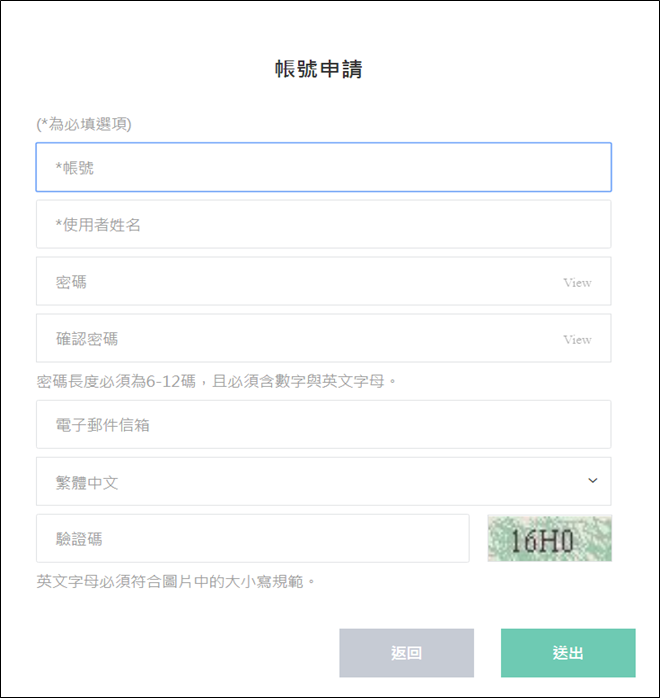
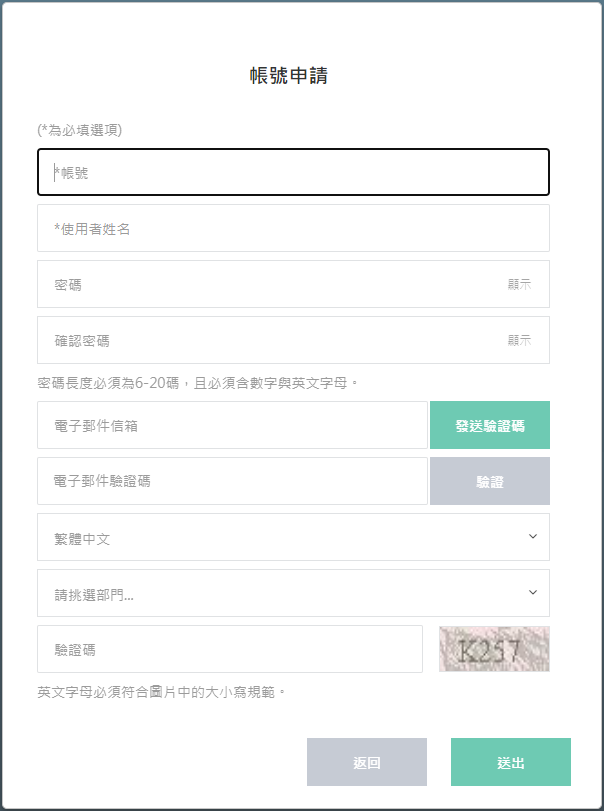
#9138 RTE_提供帳號自動生效 (SA文件)

diff --git a/8.10.2/UPDATE/ITEM_14/RTE/README.md b/8.10.2/UPDATE/ITEM_14/RTE/README.md
@@ -1,0 +1,63 @@
+### <div id="user">規劃人員</div>
+* 佩玲
+
+### <div id="updatedate">規劃日期</div>
+* 2022/10/14
+
+### <div id="trac">TRAC</div>
+* #9138
+
+### <div id="require">需求說明</div>
+* 提供企業/系統管理者可設定帳號生效方式(人工或自動)；並於帳號生效後，依設定自動對應至指定的系統、組織，及角色權限
+
+### <div id="workflow">作業流程</div>
+
+### <div id="requirement">需求展開</div>
+* 作業流程
+
+  ![作業流程]
+
+* 新增介面.帳號生效參數查詢
+  * 由Site系統服務的選單開啟
+  * 可編修及瀏覽權限的角色: 企業管理員/系統管理員
+  * 規格文件，請看: [帳號生效參數查詢][link_accounteffectparamquery]
+* 新增介面.帳號生效參數設定
+  * 由介面.帳號生效參數查詢，執行按鈕.新增，開啟本單
+  * 可編修及瀏覽權限的角色: 企業管理員/系統管理員
+  * 規格文件，請看: [帳號生效參數設定][link_accounteffectparamsetting]
+* 異動介面.登入畫面
+  * 突顯申請新帳號的樣式
+  * 完成整規格文，請看[RTE登入畫面][link_login]
+* 異動介面.帳號申請
+  * 增加發送Mail有效性驗證碼，由使用者回填驗證碼；Mail驗證碼要有效期，預設: 1分鐘，1分鐘後未回填，使用者須重新申請發送驗證碼
+  * 送出後，判斷網址是否存在帳號生效參數設定的唯一號
+    * 存在參數唯一號 且 帳號生效方式=自動，由系統自動建立申請帳號的資訊並生效
+      * 依參數唯一號寫入指定的系統、組織，及角色權限
+      * 當有效期限=到期日，預設 帳號使用該系統的有效日期等於 **到期日**
+      * 當有效期限=天數，預設 帳號使用該系統的有效日期等於 **系統日期+天數**
+    * 不存在參數唯一號，或 存在參數唯一號 且 帳號生效方式=人工，建立申請帳號資訊，但帳號不生效
+  * 完整規格文件，請看 [帳號申請][link_applyaccount]
+* 異動介面.帳號清單
+  * 按鈕.生效，判斷若申請帳號是使用介面.**帳號生效參數設定**的連結URL建立的，則生效時，增加下列寫入資料
+      * 依參數唯一號寫入指定的系統、組織，及角色權限
+      * 當有效期限=到期日，預設帳號失效日期等於 **到期日**
+      * 當有效期限=天數，預設帳號失效日期等於 **系統日期+天數**
+  * 完整規格文件，請看 [帳號清單][link_accountindex]
+* 擴充 RTE 引擎預設排程
+  * 每日檢查介面.**帳號生效參數設定**
+    * 以下條件成立時，發送通知信至系統管理員的信箱
+      * 當 **有效期限** 等於 **到期日**，依 **到期日-到期通知天數** 的日期，發送系統使用期限即將到期通知信
+      * 當 **申請人數限制** 大於等於 **已申請人數**，發送系統申請人數已額滿通知信
+      * 當 帳號 是使用介面.**帳號生效參數設定**的連結URL建立的，取得 **帳號使用系統的有效日期-各參數到期通知天數**，發送各系統即將使用到期的帳號清單通知信
+    * 當 帳號 是使用介面.**帳號生效參數設定**的連結URL建立的, 以下條件成立時，發送通知信至對應帳號的信箱
+      * 當 **帳號使用系統的有效日期-到期通知天數** 的日期，發送帳號即將到期通知信
+      * 當 **帳號使用系統的有效日期** 已到期，且 **逾期可使用天數** 不為 **0**，發送帳號已逾期通知信
+
+
+[作業流程]:attachment/8319_workflow.png "作業流程"
+
+[link_accounteffectparamquery]:{3}/RTE/SITE/accounteffectparamquery/README
+[link_accounteffectparamsetting]:{3}/RTE/SITE/accounteffectparamsetting/README
+[link_login]:{3}/RTE/SYSTEM/LOGIN/README
+[link_applyaccount]:{3}/RTE/SYSTEM/APPLYACCOUNT/README
+[link_accountindex]:{3}/RTE/SITE/accountindex/README

diff --git a/8.10.2/RTE/SITE/accounteffectparamsetting/README.md b/8.10.2/RTE/SITE/accounteffectparamsetting/README.md
@@ -1,0 +1,80 @@
+### <div id="view">畫面說明</div>
+
+![表單畫面]
+
+* 本單主要在設定帳號生效的方式，及生效後預設對應的系統、組織及角色權限
+
+
+## <div id="object-desc">欄位說明</div>
+
+* 欄位.帳號生效方式
+    * 單選 (自動 / 人工)
+    * 系統預設: 自動
+* 欄位.申請人數限制
+    * 本欄只允輸入數字
+    * 系統預設: 0 (表示無限制)
+* 欄位.已申請人數
+    * 本欄位唯讀並除能
+    * 顯示 依參數唯一號，取得申請帳號且已生效的人數
+* 欄位.有效期限
+    * 單選 (無限制 / 到期日 / 天數)
+    * 系統預設: 無限制
+* 欄位.到期日
+    * 當有效期限=到期日，本欄致能，反之則除能
+    * 系統預設：今天的日期 
+    * 按鈕.日期: 點擊後，開啟日期選擇器，帶回 日期
+* 欄位.天數
+    * 當有效期限=天數，本欄致能，反之則除能
+    * 本欄只允輸入數字
+* 欄位.到期通知天數
+    * 當有效期限<>無限制，本欄致能，反之則除能
+    * 本欄只允輸入數字
+    * 系統預設: 0
+* 欄位.逾期可使用天數
+    * 當有效期限<>無限制，本欄致能，反之則除能
+    * 本欄只允輸入數字
+    * 系統預設: 0
+* 欄位.生效系統
+    * 本欄唯讀並除能
+    * 顯示: 系統名稱
+    * 按鈕.系統選取: 點擊後，Dialog開啟介面.系統清單，依登入帳號對應的管理角色過濾可挑選系統清單，依駐留系統雙擊帶回: 系統名稱、系統代號
+* 欄位.指定組織
+    * 本欄唯讀並除能
+    * 顯示 組織名稱
+    * 按鈕.組織選取: 點擊後，Dialog開啟介面.組織清單，依欄位.生效系統過濾可挑選的組織清單，依駐留組織雙擊帶回: 組織名稱、組織代號
+* 欄位.預設角色 
+    * 本欄唯讀並除能
+    * 顯示 角色名稱
+    * 按鈕.角色選取: 點擊後，Dialog開啟介面.系統角色清單，依欄位.指定組織過濾可挑選的系統角色清單，依駐留系統角色雙擊帶回: 角色名稱、角色代號
+* 欄位.連結URL
+    * 本欄唯讀並除能    
+    * 顯示 網址+參數唯一號。參考下列URL顯示範例:
+            https://ide-2.arcare-robot.com/ArcareEng/login.jsp?_=A5CCBF73-A509-42D7-97B0-D6E02DB5363C
+    * 按鈕.複製連結: 點擊後，將連結URL的內容複製到作業系統的剪貼簿中
+        * 當為連結生效，本按鈕致能，反之則除能
+* 按鈕.儲存
+    * 儲存前，先進行下列檢查: 
+        * 當欄位.有效期限=到期日，則欄位.到期日不允為空值
+        * 當欄位.有效期限=天數，則欄位.天數不允為空值
+    * 初次儲存，產生連結唯一號為本單鍵值，並預設連結生效
+* 按鈕.重設
+    * 清除已設定內容，回復本單初始畫面
+* 按鈕.連結失效/連結失效
+    * 當連結生效，顯示 連結失效，點擊後，將本筆記錄的連結設定為失效
+    * 當連結失效，顯示 連結生效，點擊後，將本筆記錄的連結設定為生效
+
+
+### <div id="action">動作流程</div>
+* 開啟畫面
+
+* 生效系統_系統選取
+
+* 指定組織_組織選取
+
+* 預設角色_系統角色選取
+
+* 儲存
+
+* 重設
+
+[表單畫面]:attachment/account_effect_param_setting.png "表單畫面"

diff --git a/8.10.2/RTE/SITE/accounteffectparamquery/README.md b/8.10.2/RTE/SITE/accounteffectparamquery/README.md
@@ -1,0 +1,41 @@
+### <div id="view">畫面說明</div>
+
+![表單畫面]
+
+* 本單主要在查詢已設定帳號生效參數的重點內容
+* 開單後，依登入帳號對應的管理角色，載入已設定帳號生效參數的清單
+
+## <div id="object-desc">欄位說明</div>
+
+* 欄位.系統
+    * 自行輸入，可空值
+* 按鈕.查詢
+    * 當欄位.系統 無值時，登入帳號對應的管理角色，載入已設定帳號生效參數的清單至表格中
+    * 當欄位.系統 有值時，依登入帳號對應的管理角色，並查詢系統名稱包含欄位.系統的資料，載入已設定帳號生效參數的清單至表格中
+* 按鈕.新增
+    * Dialog開啟介面.帳號生效參數設定
+* 表格.帳號生效參數表格
+    * 最多顯示 **10** 筆記錄，超過出現垂直捲軸
+* 欄位.生效方式
+    * 顯示 (自動 / 人工)
+* 欄位.有效期限
+    * 當有效期限=無限制，顯示 無限制
+    * 當有效期限=到期日，顯示 **到期內容** (到期)，範例: 2022-12-31 (到期)
+    * 當有效期限=天數，顯示 **天數** (天)，範例: 120 (天)
+* 欄位.生效系統
+    * 顯示 系統名稱
+* 欄位.指定組織
+    * 顯示 組織名稱
+* 欄位.預設角色 
+    * 顯示 角色名稱
+* 按鈕.修改
+    * Dialog開啟介面.帳號生效參數設定，傳入駐留筆帳號生效參數資料    
+* 按鈕.複製連結: 
+    * 點擊後，將連結URL的內容複製到作業系統的剪貼簿中
+
+
+### <div id="action">動作流程</div>
+* 開啟畫面
+
+
+[表單畫面]:attachment/account_effect_param_query.png "表單畫面"

diff --git a/8.10.2/RTE/SYSTEM/APPLYACCOUNT/README.md b/8.10.2/RTE/SYSTEM/APPLYACCOUNT/README.md
@@ -46,6 +46,18 @@
 * 不可空白。
 * 必須為信箱格式(如aaa@bb.com)
 
+### <div id="email_send_verify_mail">發送驗證碼 <path>(畫面說明)</path></div>
+* 點擊後，發送一封 6 位數的驗證信至輸入的【電子郵件信箱】中
+* 預設 60 秒後，才可再次發送，等待過程中，按鈕改顯示 **再次發送(n秒)**
+
+### <div id="email_verify">電子郵件驗證碼 <path>(畫面說明)</path></div>
+* 預設 除能
+* 當系統已送出郵件驗證碼 且 等待驗證過程中，本欄 致能
+* 不可空白
+
+### <div id="email_verify_confirm">驗證 <path>(畫面說明)</path></div>
+* 點擊後，判斷 電子郵件驗證碼內容 須等於 系統記錄的郵件驗證碼
+
 ### <div id="language">語系資訊 <path>(畫面說明)</path></div>
 * 未輸入時顯示提示文字【語系資訊】，有輸入後提示文字消失。
 * 預設為表單.國別設定的預設國別代號
@@ -72,6 +84,7 @@
     * 確認密碼須和密碼欄位相同
     * 電子郵件不可空白
     * 電子郵件必須為信箱格式(如aaa@bb.com)
+    * 電子郵件驗證碼不可空白 且 已通過驗證
     * 驗證碼不可空白
     * 驗證碼須和圖片內的文字相同
 * 通過則儲存帳號資料，未通過則依據檢控顯示錯誤訊息

diff --git a/8.10.2/RTE/SITE/_sidebar.md b/8.10.2/RTE/SITE/_sidebar.md
@@ -13,3 +13,5 @@
 * [企業系統設定](enterprisesystem/README.md)
 * [帳號清單](accountindex/README.md)
 * [郵件伺服器](parametermailsetting/README.md)
+* [帳號生效參數設定](accounteffectparamsetting/README.md)
+* [帳號生效參數查詢](accounteffectparamquery/README.md)

diff --git a/8.10.2/UPDATE/ITEM_14/RTE/_sidebar.md b/8.10.2/UPDATE/ITEM_14/RTE/_sidebar.md
@@ -1,0 +1,8 @@
+# 提供帳號自動生效 
+* [上一頁](../../README.md)
+* [規劃人員](README.md#user)
+* [規劃日期](README.md#updatedate)
+* [TRAC](README.md#trac)
+* [需求說明](README.md#require)
+* [作業流程](README.md#workflow)
+* [需求展開](README.md#requirement)

diff --git a/8.10.2/UPDATE/_sidebar.md b/8.10.2/UPDATE/_sidebar.md
@@ -32,3 +32,5 @@
 * 13.MAE擴充_開啟它單_增加訊息盒開單模式
   * [IDE](ITEM_13/IDE/README.md)
   * [MAE](ITEM_13/MAE/README.md)
+* 14.RTE_提供帳號自動生效 
+  * [RTE](ITEM_14/RTE/README.md)

diff --git a/8.10.2/RTE/SITE/accounteffectparamquery/_sidebar.md b/8.10.2/RTE/SITE/accounteffectparamquery/_sidebar.md
@@ -1,0 +1,6 @@
+# 帳號生效參數查詢
+* [上一頁](../README.md)
+* [畫面說明](README.md#view)
+* [欄位說明](README.md#object-desc)
+* [動作流程](README.md#action)
+* [history](history.md)

diff --git a/8.10.2/RTE/SITE/accounteffectparamsetting/_sidebar.md b/8.10.2/RTE/SITE/accounteffectparamsetting/_sidebar.md
@@ -1,0 +1,6 @@
+# 帳號生效參數設定
+* [上一頁](../README.md)
+* [畫面說明](README.md#view)
+* [欄位說明](README.md#object-desc)
+* [動作流程](README.md#action)
+* [history](history.md)

diff --git a/8.10.2/RTE/SITE/enterprisesiteManager.md b/8.10.2/RTE/SITE/enterprisesiteManager.md
@@ -13,3 +13,5 @@
 * 企業目前上線人數查詢
 * 系統目前上線人數查詢
 * 稽核LOG設定
+* 帳號生效參數設定
+* 帳號生效參數查詢

diff --git a/8.10.2/RTE/SITE/systemManager.md b/8.10.2/RTE/SITE/systemManager.md
@@ -8,3 +8,5 @@
 * 系統_使用系統申請查詢
 * 系統目前上線人數查詢
 * 稽核LOG設定
+* 帳號生效參數設定
+* 帳號生效參數查詢

diff --git a/8.10.2/RTE/SITE/accounteffectparamquery/history.md b/8.10.2/RTE/SITE/accounteffectparamquery/history.md
@@ -1,0 +1,11 @@
+變更記錄
+===
+| 版本 |
+| :---: |
+| [8.10.2](#v8_10_2) |
+
+***
+### <a id='v8_10_2'></a>8.10.2
+
+
+* added 佩玲 2022/10/14 #8319
